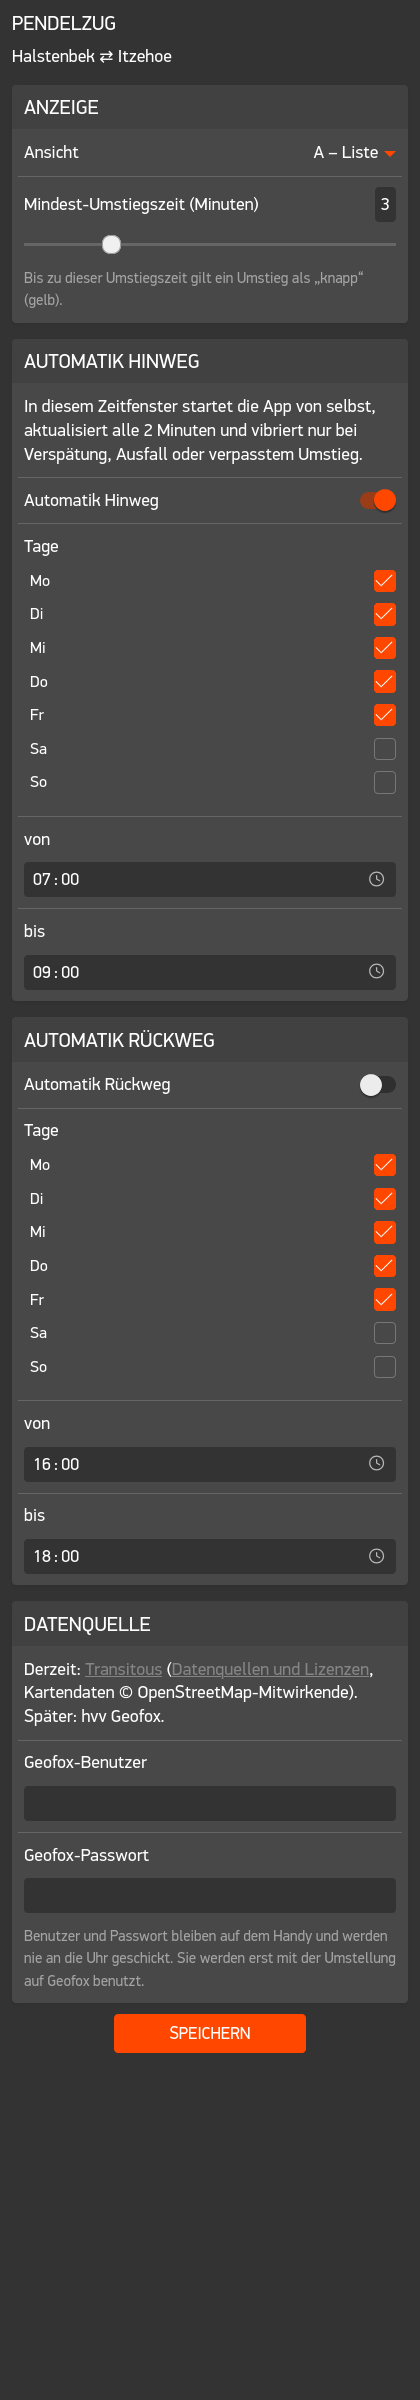
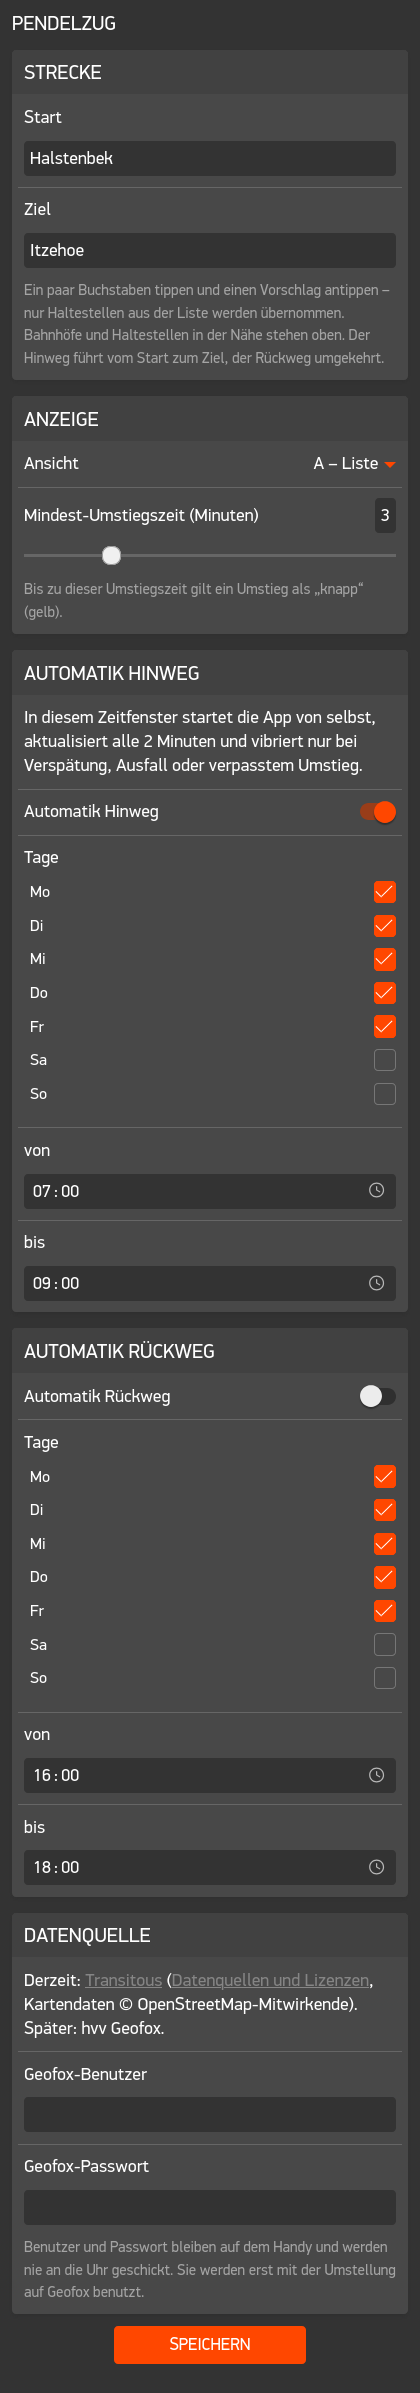
Version 1.1.0: Vorbereitung für den Pebble-Store
- Version 1.1.0 (package.json, package-lock.json, User-Agent)
- Release Notes 1.1.0 in store/beschreibung.md
- Screenshot der Einstellungsseite mit dem neuen Abschnitt „Strecke“

Changed region(s): [[0.0619, 0.0, 0.9595, 0.8659], [0.0619, 0.8968, 0.7429, 0.9896], [0.7738, 0.9277, 0.9286, 0.9586]]

diff --git a/src/pkjs/konfig.js b/src/pkjs/konfig.js
@@ -7,7 +7,7 @@ module.exports = {
 	// Für den User-Agent, den Transitous bei jeder Anfrage verlangt:
 	// App-Name, Version und eine Kontaktmöglichkeit.
 	APP_NAME: "Pendelzug",
-	VERSION: "1.0.0",
+	VERSION: "1.1.0",
 	// Projekt-Kontaktadresse (E-Mail). Solange sie leer ist, schickt die App
 	// absichtlich KEINE Anfrage an Transitous (Nutzungsbedingungen).
 	KONTAKT: "pendelzug@wortreich.eu",

diff --git a/store/beschreibung.md b/store/beschreibung.md
@@ -8,7 +8,7 @@ Zum Kopieren in das Formular im Developer Dashboard
 
 | Feld | Inhalt |
 |---|---|
-| Datei (.pbw) | `store/pendelzug-1.0.0.pbw` (Kopie von `build/work.pbw` nach `./pebble.sh build`) |
+| Datei (.pbw) | `store/pendelzug-1.1.0.pbw` (Kopie von `build/work.pbw` nach `./pebble.sh build`) |
 | App Name | Pendelzug |
 | Category | Tools & Utilities |
 | Small Icon (80×80) | `store/icon_80.png` |
@@ -37,6 +37,12 @@ Einstellungen über das Zahnrad in der Pebble-App: Start und Ziel (mit Vorschlag
 Daten: Transitous (https://transitous.org, Quellen: https://transitous.org/sources/), Kartendaten © OpenStreetMap-Mitwirkende. Alle Angaben ohne Gewähr.
 
 Freie Software (GPL-3.0), Quellcode: https://github.com/cptshit/pendelzug
+```
+
+## Release Notes 1.1.0
+
+```
+Start und Ziel sind jetzt in den Einstellungen frei wählbar – mit Vorschlagssuche: ein paar Buchstaben tippen, Haltestelle antippen. Bahnhöfe und Haltestellen in der Nähe stehen oben. Der Rückweg führt umgekehrt.
 ```
 
 ## Release Notes 1.0.0

diff --git a/README.md b/README.md
@@ -8,8 +8,8 @@ frei wählbar (Standard: Halstenbek ⇄ Itzehoe).
 
 **Im Pebble-Store (nicht gelistet, nur per Link):** <https://apps.repebble.com/b7e5b4b47e684f52b75448df>
 
-> **Version 1.0.0.** **Stand:** Schritt 5 – echte Verbindungen (Transitous), Einstellungsseite,
-> Automatik mit Wakeup und Vibration. Als Nächstes: Umstellung auf hvv Geofox.
+> **Version 1.1.0.** **Stand:** Schritt 5 – echte Verbindungen (Transitous), Einstellungsseite
+> mit frei wählbarem Start und Ziel, Automatik mit Wakeup und Vibration. Als Nächstes: Umstellung auf hvv Geofox.
 
 Echte Verbindung im Emulator (Transitous, 02.11.2026):
 
